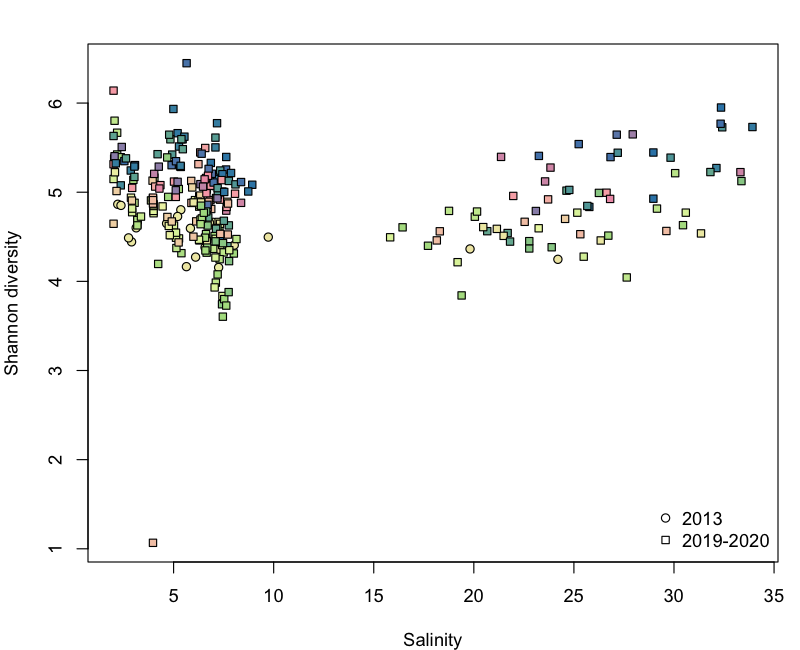
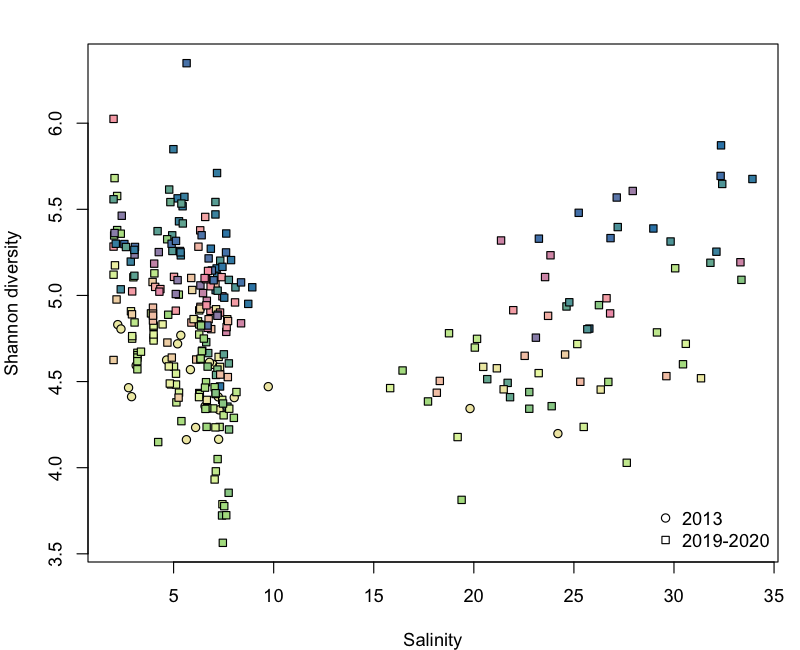
Rarefy before Shannon in step 6 with ecolongr 0.2.1
Both tracks now rarefy with el_rrarefy() and calculate Shannon with
el_diversity(). Insects use the smallest sample total as depth; plankton
use 10,000 reads, which drops six samples with fewer reads. Pin
ecolongr 0.2.1 in the setup page and rebuild scripts, figures and site.

diff --git a/docs/plankton-06-alpha.html b/docs/plankton-06-alpha.html
@@ -187,30 +187,37 @@ pre > code.sourceCode > span > a:first-child::before { text-decoration: underlin
 
 
 <p><em>Examine diversity <strong>within</strong> each sample — alpha diversity — using the <a href="https://en.wikipedia.org/wiki/Diversity_index#Shannon_index" target="_blank">Shannon index</a>, and how it varies with salinity.</em></p>
+<section id="subsample-to-a-common-depth" class="level3">
+<h3 class="anchored" data-anchor-id="subsample-to-a-common-depth">Subsample to a common depth</h3>
+<p>The more reads a sample has, the more rare taxa it reveals, so diversity partly reflects sequencing depth. We therefore first draw the same number of reads from each sample, which is called rarefying. We reuse <code>asv_counts</code> from <a href="./plankton-05-beta.html">step 5</a>:</p>
+<div class="code-copy-outer-scaffold"><div class="sourceCode" id="cb1"><pre class="sourceCode r code-with-copy"><code class="sourceCode r"><span id="cb1-1"><a href="#cb1-1" aria-hidden="true" tabindex="-1"></a>depth <span class="ot">&lt;-</span> asv_counts <span class="sc">|&gt;</span></span>
+<span id="cb1-2"><a href="#cb1-2" aria-hidden="true" tabindex="-1"></a>  <span class="fu">summarise</span>(<span class="at">depth =</span> <span class="fu">sum</span>(quant, <span class="at">na.rm =</span> <span class="cn">TRUE</span>), <span class="at">.by =</span> sample) <span class="sc">|&gt;</span></span>
+<span id="cb1-3"><a href="#cb1-3" aria-hidden="true" tabindex="-1"></a>  <span class="fu">as.data.frame</span>()</span>
+<span id="cb1-4"><a href="#cb1-4" aria-hidden="true" tabindex="-1"></a><span class="fu">summary</span>(depth<span class="sc">$</span>depth)</span>
+<span id="cb1-5"><a href="#cb1-5" aria-hidden="true" tabindex="-1"></a><span class="fu">sort</span>(depth<span class="sc">$</span>depth)[<span class="dv">1</span><span class="sc">:</span><span class="dv">10</span>]  <span class="co"># the shallowest samples</span></span>
+<span id="cb1-6"><a href="#cb1-6" aria-hidden="true" tabindex="-1"></a></span>
+<span id="cb1-7"><a href="#cb1-7" aria-hidden="true" tabindex="-1"></a><span class="fu">set.seed</span>(<span class="dv">1</span>)</span>
+<span id="cb1-8"><a href="#cb1-8" aria-hidden="true" tabindex="-1"></a>asv_rarefied <span class="ot">&lt;-</span> <span class="fu">el_rrarefy</span>(asv_counts, <span class="at">depth =</span> <span class="dv">10000</span>)</span></code></pre></div><button title="Copy to Clipboard" class="code-copy-button"><i class="bi"></i></button></div>
+<p>One sample has only 20 reads, and a few others have less than 10,000. Rarefying all samples to 20 reads would throw away almost all information, so we choose 10,000 reads instead. <code>el_rrarefy()</code> works like <code>rrarefy()</code> in <code>vegan</code>, but drops the samples that have fewer reads than <code>depth</code>, with a warning that names them. They get no Shannon value below. The draw is random, and <code>set.seed()</code> makes it the same each time you run it. Unlike the other <code>ecolongr</code> functions we use, it reads the table into R, which is fine for the number of samples here.</p>
+</section>
 <section id="calculate-shannon-diversity-per-sample" class="level3">
 <h3 class="anchored" data-anchor-id="calculate-shannon-diversity-per-sample">Calculate Shannon diversity per sample</h3>
-<p>The Shannon index is calculated from the share <em>p</em> of each taxon in a sample, as −Σ <em>p</em> log <em>p</em>. Taxa that are absent do not contribute, so the counts table holds everything we need. We reuse <code>asv_counts</code> from <a href="./plankton-05-beta.html">step 5</a>:</p>
-<div class="code-copy-outer-scaffold"><div class="sourceCode" id="cb1"><pre class="sourceCode r code-with-copy"><code class="sourceCode r"><span id="cb1-1"><a href="#cb1-1" aria-hidden="true" tabindex="-1"></a>shannon_table <span class="ot">&lt;-</span> asv_counts <span class="sc">|&gt;</span></span>
-<span id="cb1-2"><a href="#cb1-2" aria-hidden="true" tabindex="-1"></a>  <span class="fu">mutate</span>(<span class="at">total =</span> <span class="fu">sum</span>(quant, <span class="at">na.rm =</span> <span class="cn">TRUE</span>), <span class="at">.by =</span> sample) <span class="sc">|&gt;</span></span>
-<span id="cb1-3"><a href="#cb1-3" aria-hidden="true" tabindex="-1"></a>  <span class="fu">mutate</span>(<span class="at">p =</span> quant <span class="sc">/</span> total) <span class="sc">|&gt;</span></span>
-<span id="cb1-4"><a href="#cb1-4" aria-hidden="true" tabindex="-1"></a>  <span class="fu">mutate</span>(<span class="at">p_log_p =</span> p <span class="sc">*</span> <span class="fu">log</span>(p)) <span class="sc">|&gt;</span></span>
-<span id="cb1-5"><a href="#cb1-5" aria-hidden="true" tabindex="-1"></a>  <span class="fu">summarise</span>(<span class="at">shannon =</span> <span class="sc">-</span><span class="fu">sum</span>(p_log_p, <span class="at">na.rm =</span> <span class="cn">TRUE</span>), <span class="at">.by =</span> sample) <span class="sc">|&gt;</span></span>
-<span id="cb1-6"><a href="#cb1-6" aria-hidden="true" tabindex="-1"></a>  <span class="fu">as.data.frame</span>()</span>
-<span id="cb1-7"><a href="#cb1-7" aria-hidden="true" tabindex="-1"></a></span>
-<span id="cb1-8"><a href="#cb1-8" aria-hidden="true" tabindex="-1"></a>events<span class="sc">$</span>shannon <span class="ot">&lt;-</span> shannon_table<span class="sc">$</span>shannon[<span class="fu">match</span>(events<span class="sc">$</span>eventID, shannon_table<span class="sc">$</span>sample)]</span></code></pre></div><button title="Copy to Clipboard" class="code-copy-button"><i class="bi"></i></button></div>
+<p>The Shannon index is calculated from the share <em>p</em> of each taxon in a sample, as −Σ <em>p</em> log <em>p</em>. <code>el_diversity()</code> works like <code>diversity()</code> in <code>vegan</code> and returns one value per sample, named by sample:</p>
+<div class="code-copy-outer-scaffold"><div class="sourceCode" id="cb2"><pre class="sourceCode r code-with-copy"><code class="sourceCode r"><span id="cb2-1"><a href="#cb2-1" aria-hidden="true" tabindex="-1"></a>shannon <span class="ot">&lt;-</span> <span class="fu">el_diversity</span>(asv_rarefied, <span class="st">"shannon"</span>)</span>
+<span id="cb2-2"><a href="#cb2-2" aria-hidden="true" tabindex="-1"></a>events<span class="sc">$</span>shannon <span class="ot">&lt;-</span> shannon[events<span class="sc">$</span>eventID]</span></code></pre></div><button title="Copy to Clipboard" class="code-copy-button"><i class="bi"></i></button></div>
 <p>A higher Shannon index indicates greater within-sample diversity, reflecting both the number of ASVs present and how evenly their abundances are distributed.</p>
 </section>
 <section id="plot-shannon-diversity-against-salinity" class="level3">
 <h3 class="anchored" data-anchor-id="plot-shannon-diversity-against-salinity">Plot Shannon diversity against salinity</h3>
-<div class="code-copy-outer-scaffold"><div class="sourceCode" id="cb2"><pre class="sourceCode r code-with-copy"><code class="sourceCode r"><span id="cb2-1"><a href="#cb2-1" aria-hidden="true" tabindex="-1"></a>plot_shannon <span class="ot">&lt;-</span> <span class="cf">function</span>() {</span>
-<span id="cb2-2"><a href="#cb2-2" aria-hidden="true" tabindex="-1"></a>  <span class="fu">par</span>(<span class="at">mar =</span> <span class="fu">c</span>(<span class="dv">4</span>, <span class="dv">4</span>, <span class="dv">2</span>, <span class="dv">1</span>))</span>
-<span id="cb2-3"><a href="#cb2-3" aria-hidden="true" tabindex="-1"></a>  <span class="fu">plot</span>(events<span class="sc">$</span>salinity, events<span class="sc">$</span>shannon,</span>
-<span id="cb2-4"><a href="#cb2-4" aria-hidden="true" tabindex="-1"></a>       <span class="at">pch =</span> dataset_pch[events<span class="sc">$</span>dataset], <span class="at">bg =</span> color_yday[events<span class="sc">$</span>yday],</span>
-<span id="cb2-5"><a href="#cb2-5" aria-hidden="true" tabindex="-1"></a>       <span class="at">xlab =</span> <span class="st">"Salinity"</span>, <span class="at">ylab =</span> <span class="st">"Shannon diversity"</span>)</span>
-<span id="cb2-6"><a href="#cb2-6" aria-hidden="true" tabindex="-1"></a>  <span class="fu">legend</span>(<span class="st">"bottomright"</span>, <span class="at">bty =</span> <span class="st">"n"</span>, <span class="at">pch =</span> dataset_pch, <span class="at">legend =</span> <span class="fu">names</span>(dataset_pch))</span>
-<span id="cb2-7"><a href="#cb2-7" aria-hidden="true" tabindex="-1"></a>}</span>
-<span id="cb2-8"><a href="#cb2-8" aria-hidden="true" tabindex="-1"></a></span>
-<span id="cb2-9"><a href="#cb2-9" aria-hidden="true" tabindex="-1"></a><span class="fu">plot_shannon</span>()</span></code></pre></div><button title="Copy to Clipboard" class="code-copy-button"><i class="bi"></i></button></div>
+<div class="code-copy-outer-scaffold"><div class="sourceCode" id="cb3"><pre class="sourceCode r code-with-copy"><code class="sourceCode r"><span id="cb3-1"><a href="#cb3-1" aria-hidden="true" tabindex="-1"></a>plot_shannon <span class="ot">&lt;-</span> <span class="cf">function</span>() {</span>
+<span id="cb3-2"><a href="#cb3-2" aria-hidden="true" tabindex="-1"></a>  <span class="fu">par</span>(<span class="at">mar =</span> <span class="fu">c</span>(<span class="dv">4</span>, <span class="dv">4</span>, <span class="dv">2</span>, <span class="dv">1</span>))</span>
+<span id="cb3-3"><a href="#cb3-3" aria-hidden="true" tabindex="-1"></a>  <span class="fu">plot</span>(events<span class="sc">$</span>salinity, events<span class="sc">$</span>shannon,</span>
+<span id="cb3-4"><a href="#cb3-4" aria-hidden="true" tabindex="-1"></a>       <span class="at">pch =</span> dataset_pch[events<span class="sc">$</span>dataset], <span class="at">bg =</span> color_yday[events<span class="sc">$</span>yday],</span>
+<span id="cb3-5"><a href="#cb3-5" aria-hidden="true" tabindex="-1"></a>       <span class="at">xlab =</span> <span class="st">"Salinity"</span>, <span class="at">ylab =</span> <span class="st">"Shannon diversity"</span>)</span>
+<span id="cb3-6"><a href="#cb3-6" aria-hidden="true" tabindex="-1"></a>  <span class="fu">legend</span>(<span class="st">"bottomright"</span>, <span class="at">bty =</span> <span class="st">"n"</span>, <span class="at">pch =</span> dataset_pch, <span class="at">legend =</span> <span class="fu">names</span>(dataset_pch))</span>
+<span id="cb3-7"><a href="#cb3-7" aria-hidden="true" tabindex="-1"></a>}</span>
+<span id="cb3-8"><a href="#cb3-8" aria-hidden="true" tabindex="-1"></a></span>
+<span id="cb3-9"><a href="#cb3-9" aria-hidden="true" tabindex="-1"></a><span class="fu">plot_shannon</span>()</span></code></pre></div><button title="Copy to Clipboard" class="code-copy-button"><i class="bi"></i></button></div>
 <p>Shannon diversity shows no simple trend with salinity, and it varies more between seasons than along the gradient: winter samples (blue) tend to be more diverse than summer ones. So although salinity changes <em>which</em> bacteria are present, as the PCoA in step 5 shows, it does not change <em>how diverse</em> the communities are in any simple way.</p>
 <hr>
 <p><a href="./plankton-05-beta.html">← Previous</a> · <a href="./tutorial.html">Overview</a></p>

diff --git a/docs/insects-06-alpha.html b/docs/insects-06-alpha.html
@@ -195,34 +195,38 @@ pre > code.sourceCode > span > a:first-child::before { text-decoration: underlin
 <span id="cb1-3"><a href="#cb1-3" aria-hidden="true" tabindex="-1"></a>]</span>
 <span id="cb1-4"><a href="#cb1-4" aria-hidden="true" tabindex="-1"></a><span class="fu">nrow</span>(alpha_samples)</span></code></pre></div><button title="Copy to Clipboard" class="code-copy-button"><i class="bi"></i></button></div>
 </section>
-<section id="calculate-shannon-diversity-per-sample" class="level3">
-<h3 class="anchored" data-anchor-id="calculate-shannon-diversity-per-sample">Calculate Shannon diversity per sample</h3>
-<p>The Shannon index is calculated from the share <em>p</em> of each taxon in a sample, as −Σ <em>p</em> log <em>p</em>. Taxa that are absent do not contribute, so the counts table holds everything we need. As in <a href="./insects-05-beta.html">step 5</a>, we work with clusters:</p>
+<section id="subsample-to-a-common-depth" class="level3">
+<h3 class="anchored" data-anchor-id="subsample-to-a-common-depth">Subsample to a common depth</h3>
+<p>The more reads a sample has, the more rare taxa it reveals, so diversity partly reflects sequencing depth. We therefore first draw the same number of reads from each sample, which is called rarefying. As in <a href="./insects-05-beta.html">step 5</a>, we work with clusters:</p>
 <div class="code-copy-outer-scaffold"><div class="sourceCode" id="cb2"><pre class="sourceCode r code-with-copy"><code class="sourceCode r"><span id="cb2-1"><a href="#cb2-1" aria-hidden="true" tabindex="-1"></a>alpha_ids <span class="ot">&lt;-</span> <span class="fu">duckdb_tibble</span>(<span class="at">eventID =</span> alpha_samples<span class="sc">$</span>eventID, <span class="at">.prudence =</span> <span class="st">"stingy"</span>)</span>
 <span id="cb2-2"><a href="#cb2-2" aria-hidden="true" tabindex="-1"></a></span>
-<span id="cb2-3"><a href="#cb2-3" aria-hidden="true" tabindex="-1"></a>shannon_table <span class="ot">&lt;-</span> merged<span class="sc">$</span>counts <span class="sc">|&gt;</span></span>
+<span id="cb2-3"><a href="#cb2-3" aria-hidden="true" tabindex="-1"></a>alpha_counts <span class="ot">&lt;-</span> merged<span class="sc">$</span>counts <span class="sc">|&gt;</span></span>
 <span id="cb2-4"><a href="#cb2-4" aria-hidden="true" tabindex="-1"></a>  <span class="fu">semi_join</span>(alpha_ids, <span class="at">by =</span> <span class="st">"eventID"</span>) <span class="sc">|&gt;</span></span>
 <span id="cb2-5"><a href="#cb2-5" aria-hidden="true" tabindex="-1"></a>  <span class="fu">inner_join</span>(clusters, <span class="at">by =</span> <span class="st">"taxonID"</span>) <span class="sc">|&gt;</span></span>
 <span id="cb2-6"><a href="#cb2-6" aria-hidden="true" tabindex="-1"></a>  <span class="fu">summarise</span>(<span class="at">quant =</span> <span class="fu">sum</span>(organismQuantity, <span class="at">na.rm =</span> <span class="cn">TRUE</span>), <span class="at">.by =</span> <span class="fu">c</span>(eventID, cluster)) <span class="sc">|&gt;</span></span>
-<span id="cb2-7"><a href="#cb2-7" aria-hidden="true" tabindex="-1"></a>  <span class="fu">mutate</span>(<span class="at">total =</span> <span class="fu">sum</span>(quant, <span class="at">na.rm =</span> <span class="cn">TRUE</span>), <span class="at">.by =</span> eventID) <span class="sc">|&gt;</span></span>
-<span id="cb2-8"><a href="#cb2-8" aria-hidden="true" tabindex="-1"></a>  <span class="fu">mutate</span>(<span class="at">p =</span> quant <span class="sc">/</span> total) <span class="sc">|&gt;</span></span>
-<span id="cb2-9"><a href="#cb2-9" aria-hidden="true" tabindex="-1"></a>  <span class="fu">mutate</span>(<span class="at">p_log_p =</span> p <span class="sc">*</span> <span class="fu">log</span>(p)) <span class="sc">|&gt;</span></span>
-<span id="cb2-10"><a href="#cb2-10" aria-hidden="true" tabindex="-1"></a>  <span class="fu">summarise</span>(<span class="at">shannon =</span> <span class="sc">-</span><span class="fu">sum</span>(p_log_p, <span class="at">na.rm =</span> <span class="cn">TRUE</span>), <span class="at">.by =</span> eventID) <span class="sc">|&gt;</span></span>
-<span id="cb2-11"><a href="#cb2-11" aria-hidden="true" tabindex="-1"></a>  <span class="fu">as.data.frame</span>()</span>
-<span id="cb2-12"><a href="#cb2-12" aria-hidden="true" tabindex="-1"></a></span>
-<span id="cb2-13"><a href="#cb2-13" aria-hidden="true" tabindex="-1"></a>alpha_samples<span class="sc">$</span>shannon <span class="ot">&lt;-</span> shannon_table<span class="sc">$</span>shannon[<span class="fu">match</span>(alpha_samples<span class="sc">$</span>eventID, shannon_table<span class="sc">$</span>eventID)]</span></code></pre></div><button title="Copy to Clipboard" class="code-copy-button"><i class="bi"></i></button></div>
+<span id="cb2-7"><a href="#cb2-7" aria-hidden="true" tabindex="-1"></a>  <span class="fu">transmute</span>(<span class="at">sample =</span> eventID, <span class="at">taxon =</span> cluster, quant)</span>
+<span id="cb2-8"><a href="#cb2-8" aria-hidden="true" tabindex="-1"></a></span>
+<span id="cb2-9"><a href="#cb2-9" aria-hidden="true" tabindex="-1"></a><span class="fu">set.seed</span>(<span class="dv">1</span>)</span>
+<span id="cb2-10"><a href="#cb2-10" aria-hidden="true" tabindex="-1"></a>alpha_rarefied <span class="ot">&lt;-</span> <span class="fu">el_rrarefy</span>(alpha_counts)</span></code></pre></div><button title="Copy to Clipboard" class="code-copy-button"><i class="bi"></i></button></div>
+<p><code>el_rrarefy()</code> works like <code>rrarefy()</code> in <code>vegan</code>. Without a <code>depth</code>, it uses the smallest sample total, so no sample is dropped. The draw is random, and <code>set.seed()</code> makes it the same each time you run it. Unlike the other <code>ecolongr</code> functions we use, it reads the table into R, which is fine for the number of samples here.</p>
+</section>
+<section id="calculate-shannon-diversity-per-sample" class="level3">
+<h3 class="anchored" data-anchor-id="calculate-shannon-diversity-per-sample">Calculate Shannon diversity per sample</h3>
+<p>The Shannon index is calculated from the share <em>p</em> of each taxon in a sample, as −Σ <em>p</em> log <em>p</em>. <code>el_diversity()</code> works like <code>diversity()</code> in <code>vegan</code> and returns one value per sample, named by sample:</p>
+<div class="code-copy-outer-scaffold"><div class="sourceCode" id="cb3"><pre class="sourceCode r code-with-copy"><code class="sourceCode r"><span id="cb3-1"><a href="#cb3-1" aria-hidden="true" tabindex="-1"></a>shannon <span class="ot">&lt;-</span> <span class="fu">el_diversity</span>(alpha_rarefied, <span class="st">"shannon"</span>)</span>
+<span id="cb3-2"><a href="#cb3-2" aria-hidden="true" tabindex="-1"></a>alpha_samples<span class="sc">$</span>shannon <span class="ot">&lt;-</span> shannon[alpha_samples<span class="sc">$</span>eventID]</span></code></pre></div><button title="Copy to Clipboard" class="code-copy-button"><i class="bi"></i></button></div>
 <p>A higher Shannon index indicates greater within-sample diversity, reflecting both the number of clusters present and how evenly their abundances are distributed.</p>
 </section>
 <section id="plot-shannon-diversity-by-habitat" class="level3">
 <h3 class="anchored" data-anchor-id="plot-shannon-diversity-by-habitat">Plot Shannon diversity by habitat</h3>
-<div class="code-copy-outer-scaffold"><div class="sourceCode" id="cb3"><pre class="sourceCode r code-with-copy"><code class="sourceCode r"><span id="cb3-1"><a href="#cb3-1" aria-hidden="true" tabindex="-1"></a>plot_shannon <span class="ot">&lt;-</span> <span class="cf">function</span>() {</span>
-<span id="cb3-2"><a href="#cb3-2" aria-hidden="true" tabindex="-1"></a>  <span class="fu">par</span>(<span class="at">mar =</span> <span class="fu">c</span>(<span class="dv">7</span>, <span class="dv">4</span>, <span class="dv">2</span>, <span class="dv">1</span>))</span>
-<span id="cb3-3"><a href="#cb3-3" aria-hidden="true" tabindex="-1"></a>  <span class="fu">boxplot</span>(alpha_samples<span class="sc">$</span>shannon <span class="sc">~</span> alpha_samples<span class="sc">$</span>habitat, <span class="at">las =</span> <span class="dv">2</span>, <span class="at">xlab =</span> <span class="st">""</span>,</span>
-<span id="cb3-4"><a href="#cb3-4" aria-hidden="true" tabindex="-1"></a>          <span class="at">ylab =</span> <span class="st">"Shannon diversity"</span>,</span>
-<span id="cb3-5"><a href="#cb3-5" aria-hidden="true" tabindex="-1"></a>          <span class="at">col =</span> habitat_cols[<span class="fu">levels</span>(<span class="fu">factor</span>(alpha_samples<span class="sc">$</span>habitat))])</span>
-<span id="cb3-6"><a href="#cb3-6" aria-hidden="true" tabindex="-1"></a>}</span>
-<span id="cb3-7"><a href="#cb3-7" aria-hidden="true" tabindex="-1"></a></span>
-<span id="cb3-8"><a href="#cb3-8" aria-hidden="true" tabindex="-1"></a><span class="fu">plot_shannon</span>()</span></code></pre></div><button title="Copy to Clipboard" class="code-copy-button"><i class="bi"></i></button></div>
+<div class="code-copy-outer-scaffold"><div class="sourceCode" id="cb4"><pre class="sourceCode r code-with-copy"><code class="sourceCode r"><span id="cb4-1"><a href="#cb4-1" aria-hidden="true" tabindex="-1"></a>plot_shannon <span class="ot">&lt;-</span> <span class="cf">function</span>() {</span>
+<span id="cb4-2"><a href="#cb4-2" aria-hidden="true" tabindex="-1"></a>  <span class="fu">par</span>(<span class="at">mar =</span> <span class="fu">c</span>(<span class="dv">7</span>, <span class="dv">4</span>, <span class="dv">2</span>, <span class="dv">1</span>))</span>
+<span id="cb4-3"><a href="#cb4-3" aria-hidden="true" tabindex="-1"></a>  <span class="fu">boxplot</span>(alpha_samples<span class="sc">$</span>shannon <span class="sc">~</span> alpha_samples<span class="sc">$</span>habitat, <span class="at">las =</span> <span class="dv">2</span>, <span class="at">xlab =</span> <span class="st">""</span>,</span>
+<span id="cb4-4"><a href="#cb4-4" aria-hidden="true" tabindex="-1"></a>          <span class="at">ylab =</span> <span class="st">"Shannon diversity"</span>,</span>
+<span id="cb4-5"><a href="#cb4-5" aria-hidden="true" tabindex="-1"></a>          <span class="at">col =</span> habitat_cols[<span class="fu">levels</span>(<span class="fu">factor</span>(alpha_samples<span class="sc">$</span>habitat))])</span>
+<span id="cb4-6"><a href="#cb4-6" aria-hidden="true" tabindex="-1"></a>}</span>
+<span id="cb4-7"><a href="#cb4-7" aria-hidden="true" tabindex="-1"></a></span>
+<span id="cb4-8"><a href="#cb4-8" aria-hidden="true" tabindex="-1"></a><span class="fu">plot_shannon</span>()</span></code></pre></div><button title="Copy to Clipboard" class="code-copy-button"><i class="bi"></i></button></div>
 <p>Shannon diversity is broadly similar across habitats, with overlapping distributions. This doesn’t contradict the PCoA in step 5: PCoA reflects <em>which</em> taxa are present, while Shannon reflects <em>how many</em> and how evenly distributed, so habitats can differ in composition but have similar diversity levels.</p>
 <hr>
 <p><a href="./insects-05-beta.html">← Previous</a> · <a href="./tutorial.html">Overview</a></p>

diff --git a/docs/tutorial-01-setup.html b/docs/tutorial-01-setup.html
@@ -261,7 +261,7 @@ pre > code.sourceCode > span > a:first-child::before { text-decoration: underlin
 <span id="cb4-10"><a href="#cb4-10" aria-hidden="true" tabindex="-1"></a></span>
 <span id="cb4-11"><a href="#cb4-11" aria-hidden="true" tabindex="-1"></a><span class="co"># Install from GitHub</span></span>
 <span id="cb4-12"><a href="#cb4-12" aria-hidden="true" tabindex="-1"></a>remotes<span class="sc">::</span><span class="fu">install_github</span>(<span class="st">"biodiversitydata-se/asvoccur@v1.3.0"</span>)</span>
-<span id="cb4-13"><a href="#cb4-13" aria-hidden="true" tabindex="-1"></a>remotes<span class="sc">::</span><span class="fu">install_github</span>(<span class="st">"biodiversitydata-se/ecolongr@0.1.1"</span>)</span>
+<span id="cb4-13"><a href="#cb4-13" aria-hidden="true" tabindex="-1"></a>remotes<span class="sc">::</span><span class="fu">install_github</span>(<span class="st">"biodiversitydata-se/ecolongr@0.2.1"</span>)</span>
 <span id="cb4-14"><a href="#cb4-14" aria-hidden="true" tabindex="-1"></a></span>
 <span id="cb4-15"><a href="#cb4-15" aria-hidden="true" tabindex="-1"></a><span class="co"># Load</span></span>
 <span id="cb4-16"><a href="#cb4-16" aria-hidden="true" tabindex="-1"></a><span class="fu">library</span>(asvoccur)</span>
@@ -274,7 +274,7 @@ pre > code.sourceCode > span > a:first-child::before { text-decoration: underlin
 <span id="cb4-23"><a href="#cb4-23" aria-hidden="true" tabindex="-1"></a></span>
 <span id="cb4-24"><a href="#cb4-24" aria-hidden="true" tabindex="-1"></a><span class="co"># Confirm versions</span></span>
 <span id="cb4-25"><a href="#cb4-25" aria-hidden="true" tabindex="-1"></a><span class="fu">packageVersion</span>(<span class="st">"asvoccur"</span>)  <span class="co"># Should say 1.3.0</span></span>
-<span id="cb4-26"><a href="#cb4-26" aria-hidden="true" tabindex="-1"></a><span class="fu">packageVersion</span>(<span class="st">"ecolongr"</span>)  <span class="co"># Should say 0.1.1</span></span></code></pre></div><button title="Copy to Clipboard" class="code-copy-button"><i class="bi"></i></button></div>
+<span id="cb4-26"><a href="#cb4-26" aria-hidden="true" tabindex="-1"></a><span class="fu">packageVersion</span>(<span class="st">"ecolongr"</span>)  <span class="co"># Should say 0.2.1</span></span></code></pre></div><button title="Copy to Clipboard" class="code-copy-button"><i class="bi"></i></button></div>
 <section id="download-example-data-from-the-asv-portal" class="level3">
 <h3 class="anchored" data-anchor-id="download-example-data-from-the-asv-portal">Download example data from the ASV portal</h3>
 <p>In this option, example data is downloaded directly from the ASV portal.</p>

diff --git a/docs/results.html b/docs/results.html
@@ -193,7 +193,7 @@ ul.task-list li input[type="checkbox"] {
 </section>
 <section id="within-sample-diversity-alpha-diversity-shannon-index" class="level3">
 <h3 class="anchored" data-anchor-id="within-sample-diversity-alpha-diversity-shannon-index">Within-sample diversity (alpha diversity) — Shannon index</h3>
-<p><em>Diversity within each of the 4,380 lysate samples, by habitat.</em></p>
+<p><em>Diversity within each of the 4,380 lysate samples, by habitat, after rarefying all samples to the same number of reads.</em></p>
 <p><img src="figures/insects_6_shannon.png" class="img-fluid"></p>
 </section>
 </section>
@@ -217,7 +217,7 @@ ul.task-list li input[type="checkbox"] {
 </section>
 <section id="within-sample-diversity-alpha-diversity-shannon-index-1" class="level3">
 <h3 class="anchored" data-anchor-id="within-sample-diversity-alpha-diversity-shannon-index-1">Within-sample diversity (alpha diversity) — Shannon index</h3>
-<p><em>Diversity within each sample against salinity.</em></p>
+<p><em>Diversity within each sample against salinity, after rarefying to 10,000 reads. Six samples with fewer reads are left out.</em></p>
 <p><img src="figures/plankton_6_shannon.png" class="img-fluid"></p>
 
 
